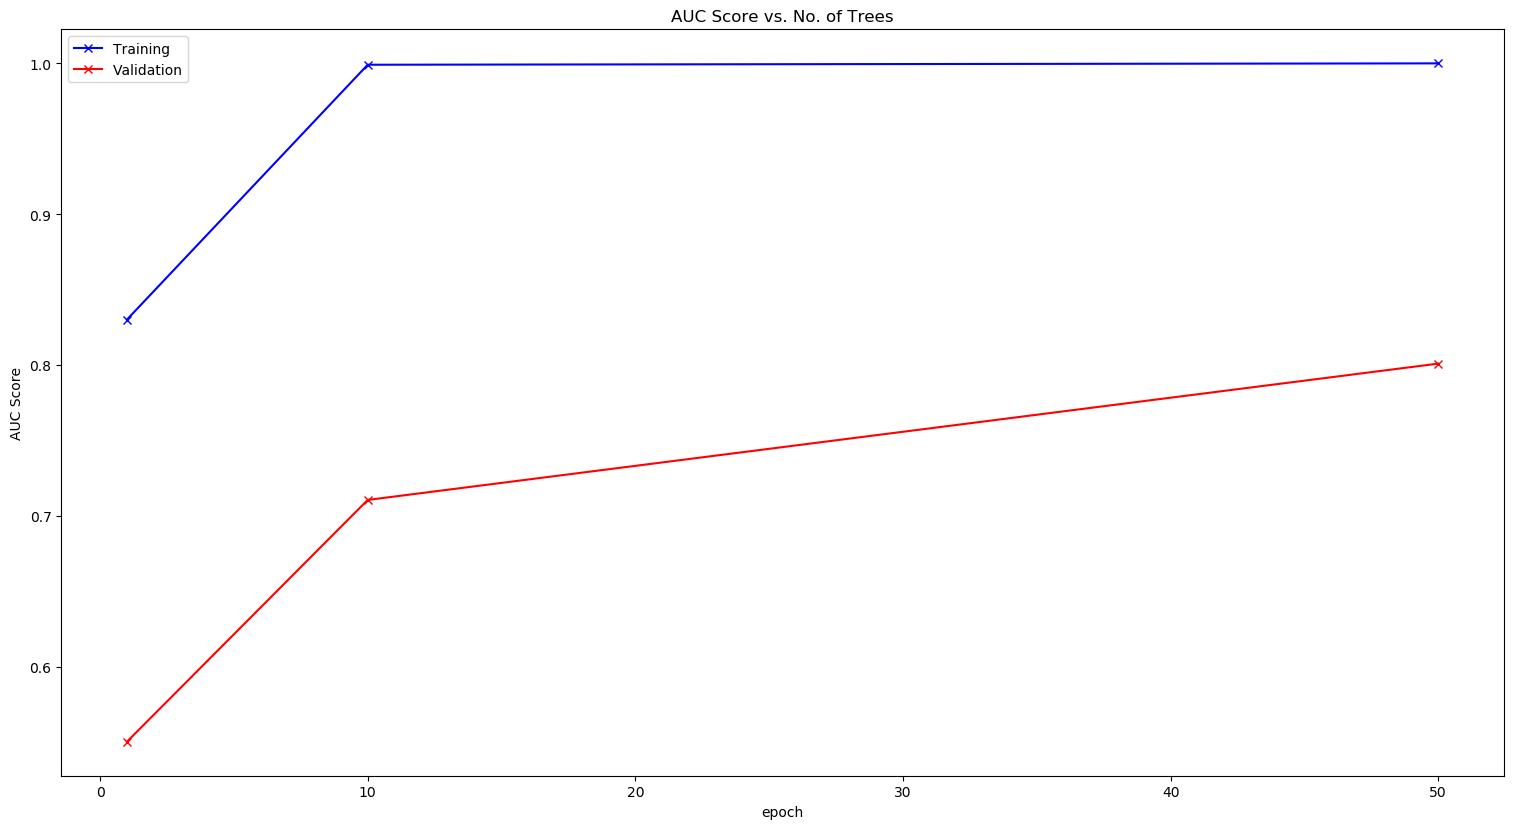
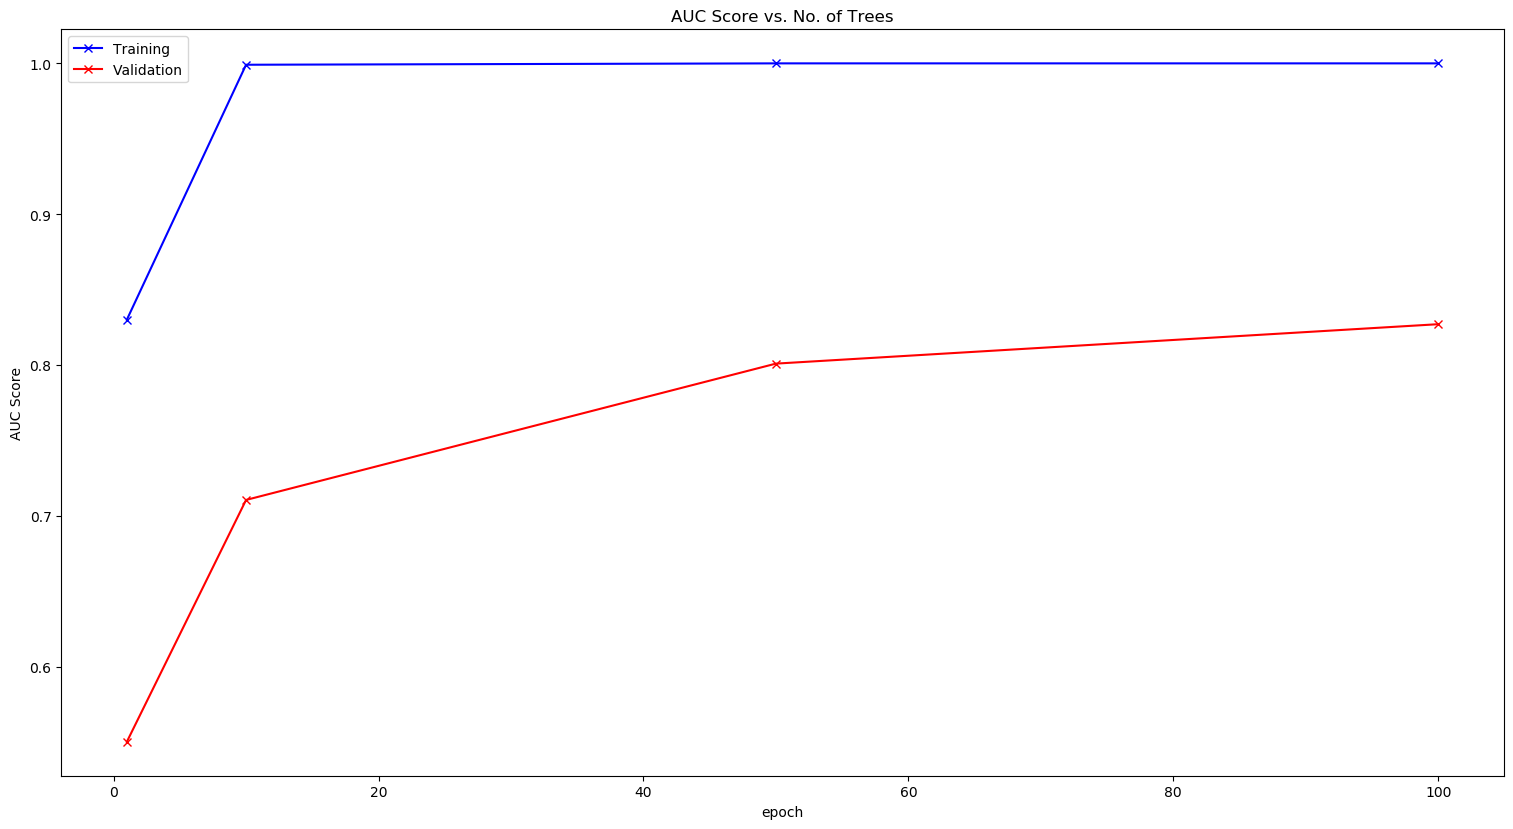
update

diff --git a/RandomForests/RF_Part2.py b/RandomForests/RF_Part2.py
@@ -590,8 +590,8 @@ history = []
 n_estimators = 1
 my_RF_model = RandomForestClassifier(n_estimators= n_estimators, criterion='gini', max_depth= max(50, n_estimators/10), min_samples_split=30, n_jobs = None, warm_start=True)
 
-#for n_estimators in [1, 10, 25, 35, 40, 50, 100, 200, 500, 1000, 5000]:
-for n_estimators in [1, 5]:
+for n_estimators in [1, 10, 25, 35, 40, 50, 100, 200, 500, 1000, 5000]:
+#for n_estimators in [1, 5]:
 
 	parameter_identifier = f"RF_P2_n_estimators={my_RF_model.n_estimators}, max_depth= {my_RF_model.max_depth}.rfmodel"
 	#my_RF_model = TorchRandomForestClassifier(nb_trees = n_estimators, nb_samples=30, max_depth=max(5, n_estimators), bootstrap=True)
